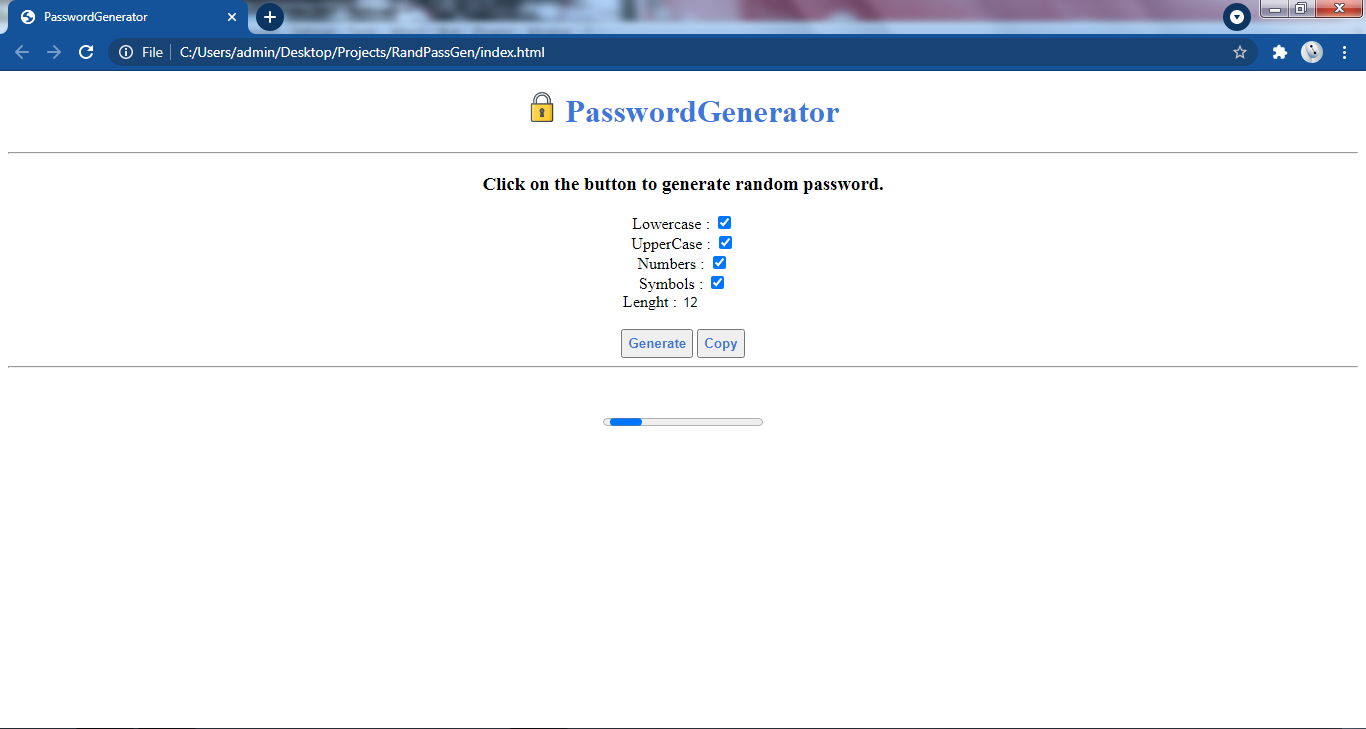
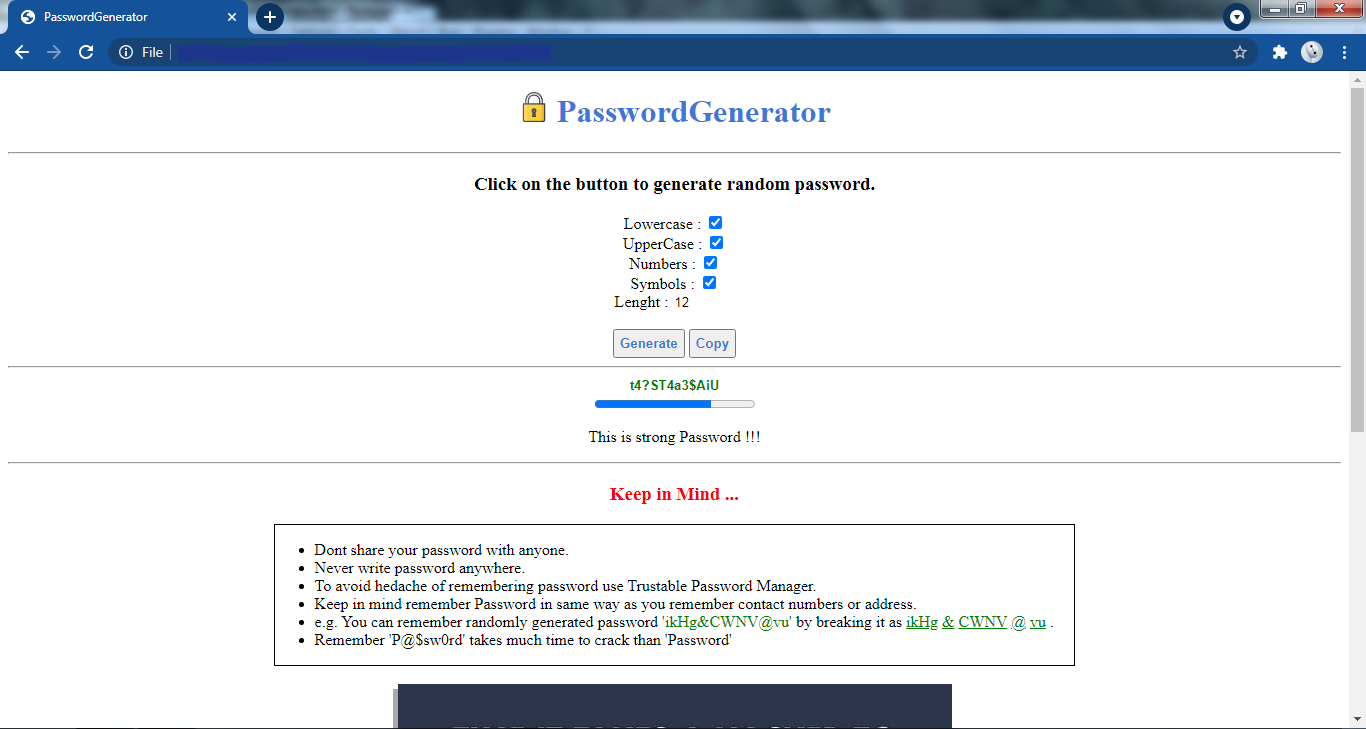
added Instructions

diff --git a/index.html b/index.html
@@ -2,6 +2,8 @@
 <html> 
 
 <head> 
+    <meta charset="utf-8">
+    <meta name="viewport" content="width=device-width, initial-scale=1">
 	<title> 
 		PasswordGenerator
 	</title> 
@@ -9,6 +11,17 @@
 	button {
 		padding:5px;
 		color: rgb(60,120,216);
+		font-weight:bold;
+	}
+	.instructions{
+		border: 1px solid black;
+		margin:auto;
+		width:60%;
+		padding:10;
+	}
+	#newpass {
+		text-align:center;
+		border:none;
 		font-weight:bold;
 	}
 	</style>
@@ -38,10 +51,24 @@
 	<br> 
 	<hr>
 	<div> 
-		<input id="newpass" readonly style="text-align:center;border:none"></input> 
-	</div> <br>
+		<input id="newpass" readonly style=""></input> 
+	</div>
 	<progress min=0 max=120 id="progress"></progress>
 	<p id="passStrength"></p>
+	<hr>
+	<h3 style="color:red">Keep in Mind ...</h3>
+	<div class="instructions" style="text-align:start;justify-content:center">
+	<ul>
+	<li>Dont share your password with anyone.</li>
+	<li>Never write password anywhere.</li>
+	<li>To avoid hedache of remembering password use Trustable Password Manager.</li>
+	<li>Keep in mind remember Password in same way as you remember contact numbers or address.</li>
+	<li>e.g. You can remember randomly generated password <span style="color:green">'ikHg&CWNV@vu'</span> by breaking it as <span style="color:green"><u>ikHg</u> <u>&</u> <u>CWNV</u> <u>@</u> <u>vu</u></span> .</li>
+	<li>Remember 'P@$sw0rd' takes much time to crack than 'Password'</li>
+	</ul>
+	</div><br>
+	<img src="img/bruteforce.jpeg" style="box-shadow:-5px 5px #AAAAAA" alt="Time taken to crack password by BruteForce attack">
+	<hr>
 	<script src="js/index.js"></script>
 </body> 
 

diff --git a/js/index.js b/js/index.js
@@ -78,12 +78,20 @@ function scorePassword(pass) {
 function checkPassStrength(pass) {
     var score = scorePassword(pass);
     if (score > 80)
+	{
+		document.getElementById("newpass").style.color="green";
         return "strong";
+	}
     if (score > 60)
+	{
+		document.getElementById("newpass").style.color="orange";
         return "good";
-    if (score >= 30)
+	}
+    if (score >= 0)
+	{
+		document.getElementById("newpass").style.color="red";
         return "weak";
-
+	}
     return "";
 }
 function checkLen()
